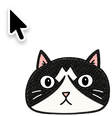
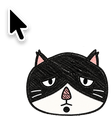
簡化自訂游標：只保留預設游標
拿掉連結/按鈕 hover 跟 disabled 的自訂游標，恢復成瀏覽器原生的
pointer / not-allowed。預設游標改用 referee 貓咪貼圖（原本是 cat1）。

Changed region(s): [[0.2143, 0.4138, 0.9911, 1.0], [0.7232, 0.5431, 0.75, 0.569], [0.4554, 0.569, 0.4821, 0.5948]]

diff --git a/src/app/globals.css b/src/app/globals.css
@@ -44,27 +44,3 @@ body {
   cursor: image-set(url(/cursors/cat-default.png) 1x, url(/cursors/cat-default-2x.png) 2x) 5 5,
     auto;
 }
-
-a,
-button,
-[role="button"],
-input[type="submit"],
-input[type="button"],
-input[type="reset"],
-select,
-summary,
-label[for],
-.cursor-pointer {
-  cursor: image-set(url(/cursors/cat-hover.png) 1x, url(/cursors/cat-hover-2x.png) 2x) 13 8,
-    pointer;
-}
-
-button:disabled,
-input:disabled,
-select:disabled,
-textarea:disabled,
-[aria-disabled="true"],
-.cursor-not-allowed {
-  cursor: image-set(url(/cursors/cat-disabled.png) 1x, url(/cursors/cat-disabled-2x.png) 2x) 5 5,
-    not-allowed;
-}
